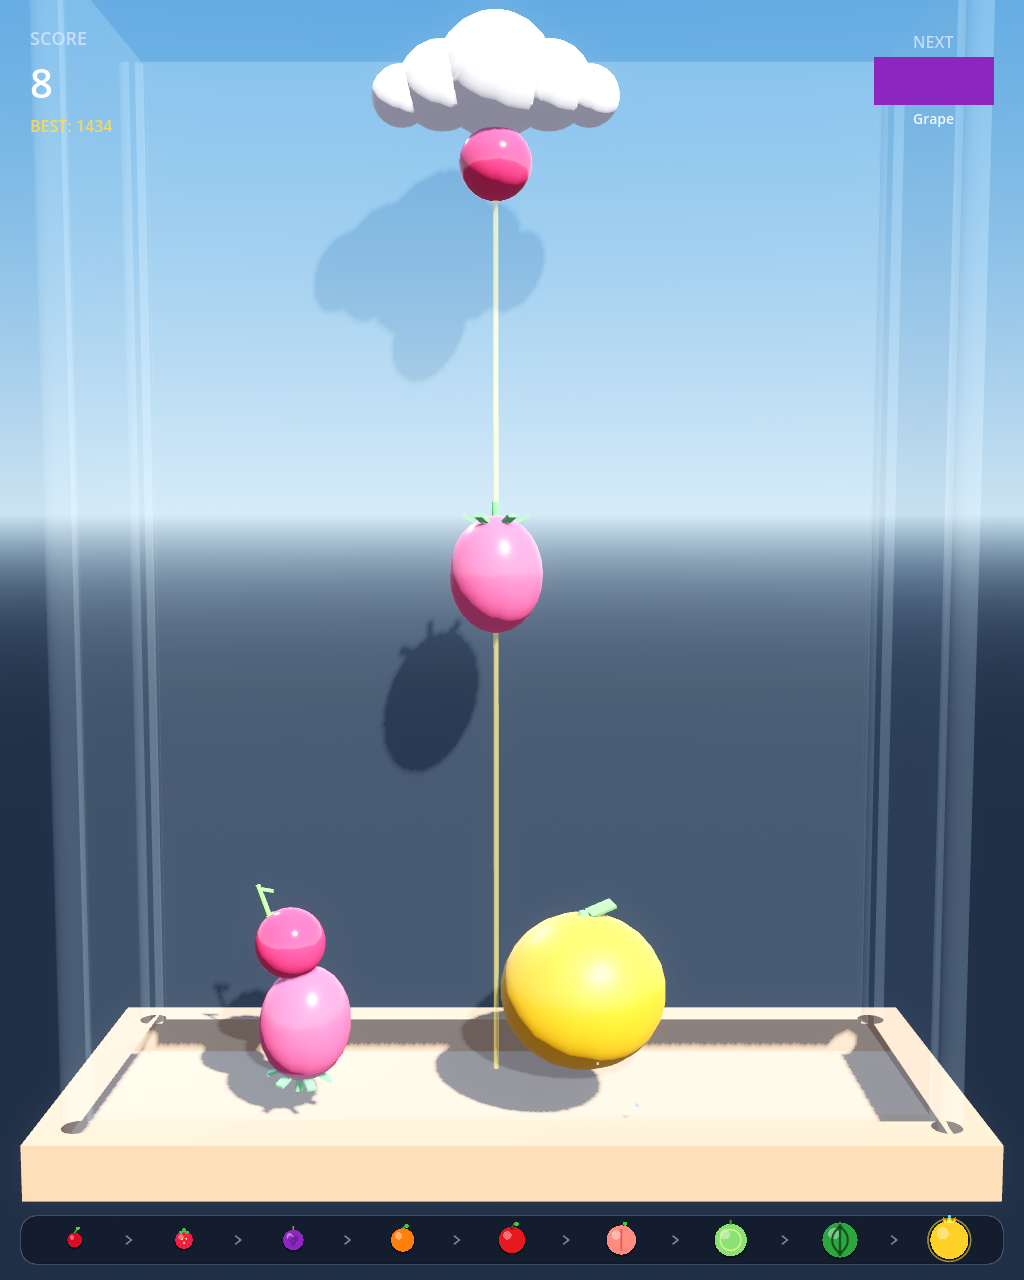
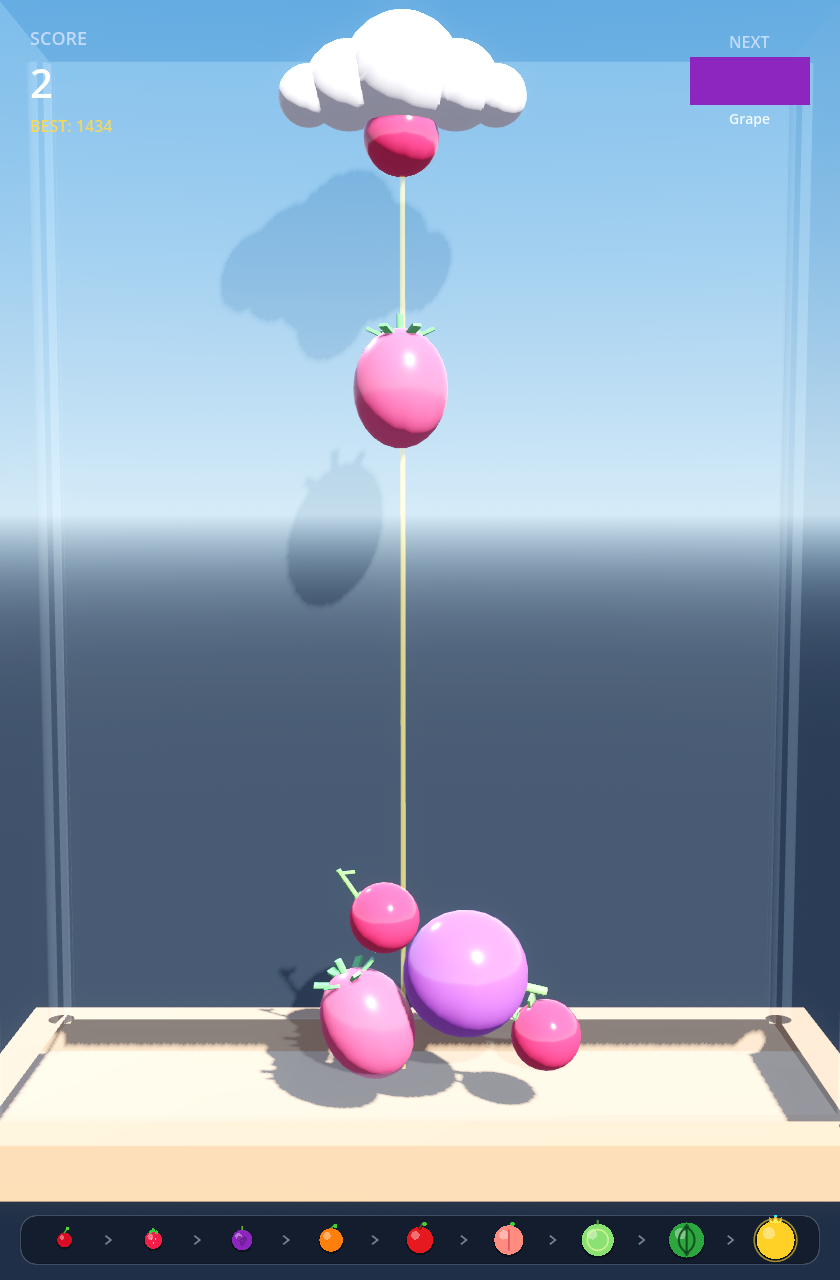
Updates

diff --git a/fruit_fusion_3d/index.html b/fruit_fusion_3d/index.html
@@ -111,7 +111,7 @@ body {
 
 		<script src="../engine/godot.js"></script>
 		<script>
-const GODOT_CONFIG = {"args":[],"canvasResizePolicy":2,"emscriptenPoolSize":8,"ensureCrossOriginIsolationHeaders":true,"executable":"../engine/godot","mainPack":"index.pck","experimentalVK":false,"fileSizes":{"index.pck":881384,"../engine/godot.wasm":39514754},"focusCanvas":true,"gdextensionLibs":[],"godotPoolSize":4};
+const GODOT_CONFIG = {"args":[],"canvasResizePolicy":2,"emscriptenPoolSize":8,"ensureCrossOriginIsolationHeaders":true,"executable":"../engine/godot","mainPack":"index.pck","experimentalVK":false,"fileSizes":{"index.pck":881352,"../engine/godot.wasm":39514754},"focusCanvas":true,"gdextensionLibs":[],"godotPoolSize":4};
 const GODOT_THREADS_ENABLED = false;
 const engine = new Engine(GODOT_CONFIG);
 
